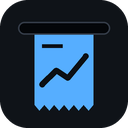
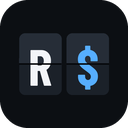
GerencIA 1.0.1: placar de cotações no Início
Troca o recibo por um placar com plaquinhas que viram (split-flap),
diferente dos outros apps. Novo ícone, botão Adicionar dentro do menu
e opções do tema com espaço nas laterais.

Claude-Session: https://claude.ai/code/session_01KymZovckVDN7Ug2oWtjnTX

diff --git a/gerencia/app/www/styles.css b/gerencia/app/www/styles.css
@@ -25,8 +25,10 @@
   --text-2: #b6bfcb;
   --muted: #8a94a2;
   --nav: #0b0e12;
-  --fenda: #05070a;
-  --fenda-borda: #2a313b;
+  --placar-bg: #0c0f13;
+  --placar-borda: #262d37;
+  --placar-ink: #f3f5f8;
+  --placar-muted: #8f99a6;
   --terc: #F5B14C;
   --danger: #FF7A6B;
   --good: #4CD3A5;
@@ -41,7 +43,6 @@
   color-scheme: light;
   --bg: #f2f4f7; --card: #ffffff; --card-2: #eef1f5; --line: #e3e7ec; --line-2: #d3d9e1;
   --text: #121820; --text-2: #3d4754; --muted: #667180; --nav: #ffffff;
-  --fenda: #20262e; --fenda-borda: #3a424d;
   --terc: #a85f00; --danger: #c63d2f; --good: #0f8a5f;
   --accent-text: color-mix(in srgb, var(--accent) 58%, #000);
   --shadow: 0 10px 30px rgba(20, 30, 45, .14);
@@ -53,8 +54,7 @@
     color-scheme: light;
     --bg: #f2f4f7; --card: #ffffff; --card-2: #eef1f5; --line: #e3e7ec; --line-2: #d3d9e1;
     --text: #121820; --text-2: #3d4754; --muted: #667180; --nav: #ffffff;
-    --fenda: #20262e; --fenda-borda: #3a424d;
-    --terc: #a85f00; --danger: #c63d2f; --good: #0f8a5f;
+      --terc: #a85f00; --danger: #c63d2f; --good: #0f8a5f;
     --accent-text: color-mix(in srgb, var(--accent) 58%, #000);
     --shadow: 0 10px 30px rgba(20, 30, 45, .14);
     --c1: #2a78d6; --c2: #eb6834; --c3: #1baf7a; --c4: #eda100;
@@ -100,31 +100,58 @@ svg { display: block; }
 }
 .icbtn:active { background: var(--card-2); }
 
-/* ---------- comprovante (destaque principal do GerencIA) */
-.cpv-wrap { position: relative; margin: 4px 0 28px; }
-.cpv-fenda {
-  position: relative; z-index: 2; height: 18px; margin: 0 -2px; border-radius: 10px;
-  background: var(--fenda); border: 1px solid var(--fenda-borda);
-  box-shadow: inset 0 4px 7px rgba(0, 0, 0, .7);
+/* ---------- placar de cotações (destaque principal do GerencIA) */
+.placar {
+  --tile-a: #262d37; --tile-b: #1b2129; --fresta: #05070a;
+  position: relative; margin: 4px 0 26px; padding: 16px 16px 14px; border-radius: 18px;
+  background: var(--placar-bg); color: var(--placar-ink); border: 1px solid var(--placar-borda);
+  box-shadow: inset 0 1px 0 rgba(255, 255, 255, .05), var(--shadow);
 }
-.cpv-papel { margin: -9px 16px 0; filter: drop-shadow(0 10px 14px rgba(0, 0, 0, .28)); }
-.cpv {
-  --dente: 16px;
-  background: var(--accent); color: var(--on-accent);
-  padding: 26px 22px calc(var(--dente) + 18px);
-  transform: rotate(-.7deg); transform-origin: top center;
-  -webkit-mask: conic-gradient(from -45deg at bottom, #0000, #000 1deg 89deg, #0000 90deg) 50% / var(--dente) 100%;
-  mask: conic-gradient(from -45deg at bottom, #0000, #000 1deg 89deg, #0000 90deg) 50% / var(--dente) 100%;
+.placar::before, .placar::after { /* parafusos do painel */
+  content: ""; position: absolute; top: 9px; width: 6px; height: 6px; border-radius: 50%;
+  background: var(--placar-borda); box-shadow: inset 0 1px 1px rgba(0, 0, 0, .6);
 }
-.cpv-topo { display: flex; justify-content: space-between; gap: 12px; font: 600 12px/1 var(--font); letter-spacing: .12em; text-transform: uppercase; opacity: .8; }
-.cpv-val { font: 700 clamp(48px, 15vw, 76px)/.95 var(--font-d); letter-spacing: -.01em; margin: 14px 0 16px; white-space: nowrap; }
-.cpv-val small { font-size: .46em; font-weight: 600; margin-right: 6px; vertical-align: .6em; }
-.cpv-val.palavra { font-size: clamp(48px, 14vw, 66px); }
-.cpv-linhas { border-top: 2px dashed color-mix(in srgb, var(--on-accent) 32%, transparent); padding-top: 12px; display: grid; gap: 6px; }
-.cpv-linha { display: flex; justify-content: space-between; align-items: baseline; gap: 12px; font: 500 15px/1.3 var(--font); }
-.cpv-linha b { font: 600 19px/1.1 var(--font-d); white-space: nowrap; }
-.cpv-texto { font: 500 16px/1.4 var(--font); margin: 0; }
-.cpv-rodape { margin-top: 14px; font: 600 12px/1 var(--font-d); letter-spacing: .12em; text-transform: uppercase; opacity: .55; display: flex; justify-content: space-between; gap: 8px; }
+.placar::before { left: 9px; }
+.placar::after { right: 9px; }
+.placar-cab { display: flex; align-items: center; gap: 9px; margin: 0 6px 12px; font: 600 12px/1 var(--font); letter-spacing: .12em; text-transform: uppercase; color: var(--placar-muted); }
+.placar-cab .led { width: 8px; height: 8px; border-radius: 50%; background: var(--accent); box-shadow: 0 0 0 3px color-mix(in srgb, var(--accent) 25%, transparent), 0 0 10px var(--accent); flex: none; }
+.placar-cab .dt { margin-left: auto; font: 600 14px/1 var(--font-d); letter-spacing: .06em; }
+.placar-num { container-type: inline-size; display: flex; align-items: stretch; gap: 4px; }
+.placar-num .moeda { align-self: center; font: 600 clamp(18px, 6cqw, 26px)/1 var(--font-d); color: var(--accent); margin-right: 4px; }
+.flap {
+  position: relative; flex: 1 1 0; min-width: 0; max-width: 62px; display: grid; place-items: center;
+  height: min(86px, calc(100cqw / var(--n) * 1.5));
+  border-radius: 7px; background: linear-gradient(var(--tile-a) 0 50%, var(--tile-b) 50% 100%);
+  box-shadow: inset 0 1px 0 rgba(255, 255, 255, .07), 0 2px 0 rgba(0, 0, 0, .55);
+  font: 700 min(66px, calc(100cqw / var(--n) * 1.18))/1 var(--font-d); color: var(--placar-ink);
+  overflow: hidden;
+}
+.flap::after { content: ""; position: absolute; left: 0; right: 0; top: calc(50% - 1px); height: 2px; background: var(--fresta); }
+.flap::before { /* dobradiças laterais */
+  content: ""; position: absolute; left: -1px; right: -1px; top: calc(50% - 4px); height: 8px;
+  border-left: 3px solid var(--fresta); border-right: 3px solid var(--fresta); border-radius: 2px;
+}
+.flap.acento { color: var(--accent); }
+.flap.ponto {
+  flex: 0 0 auto; width: max(10px, calc(100cqw / var(--n) * .32)); height: auto; align-self: stretch; background: none; box-shadow: none;
+  display: flex; align-items: flex-end; justify-content: center; padding: 0 0 10px; font-size: 0; overflow: visible;
+}
+.flap.ponto > span { width: 7px; height: 7px; border-radius: 2px; background: var(--placar-ink); }
+.flap.ponto::before, .flap.ponto::after { display: none; }
+.flap > span { display: block; }
+.placar.vira .flap > span { animation: vira .55s cubic-bezier(.25, .8, .3, 1) both; animation-delay: calc(var(--i) * 55ms); transform-origin: 50% 50%; }
+@keyframes vira {
+  0% { transform: perspective(240px) rotateX(-90deg); opacity: .2; }
+  60% { transform: perspective(240px) rotateX(12deg); opacity: 1; }
+  100% { transform: none; opacity: 1; }
+}
+.placar-cols { display: grid; grid-template-columns: repeat(3, minmax(0, 1fr)); margin-top: 14px; border-top: 1px solid var(--placar-borda); }
+.placar-cols > div { padding: 11px 6px 2px; min-width: 0; }
+.placar-cols > div + div { border-left: 1px solid var(--placar-borda); padding-left: 11px; }
+.placar-cols span { display: block; font: 600 12px/1.2 var(--font); letter-spacing: .1em; text-transform: uppercase; color: var(--placar-muted); }
+.placar-cols b { display: block; margin-top: 4px; font: 600 19px/1.1 var(--font-d); white-space: nowrap; color: var(--placar-ink); }
+.placar-cols b.acento { color: var(--accent); }
+.placar-txt { margin: 12px 6px 2px; color: var(--placar-muted); font-size: 15px; }
 
 /* ---------- destaques em lista (padrão InventarIA) */
 .hl { border-top: 1px solid var(--line); margin-bottom: 26px; }
@@ -188,8 +215,8 @@ svg { display: block; }
 /* ---------- controles */
 .seg { display: flex; background: var(--card-2); border-radius: 14px; padding: 4px; gap: 4px; margin-bottom: 14px; }
 .seg button {
-  flex: 1; display: flex; align-items: center; justify-content: center; gap: 7px; min-width: 0;
-  padding: 10px 6px; border-radius: 11px; color: var(--muted); font: 500 15px/1.2 var(--font); white-space: nowrap;
+  flex: 1 1 auto; display: flex; align-items: center; justify-content: center; gap: 7px; min-width: 0;
+  padding: 10px 14px; border-radius: 11px; color: var(--muted); font: 500 15px/1.2 var(--font); white-space: nowrap;
 }
 .seg button.on { background: var(--card); color: var(--text); font-weight: 600; box-shadow: 0 1px 2px rgba(0,0,0,.18); }
 :root[data-theme="dark"] .seg button.on { background: #2c333d; }
@@ -415,14 +442,16 @@ code { background: var(--card-2); padding: 2px 6px; border-radius: 6px; font-siz
   padding-left: max(6px, env(safe-area-inset-left, 0px)); padding-right: max(6px, env(safe-area-inset-right, 0px));
 }
 #nav .in { max-width: 600px; margin: 0 auto; display: grid; grid-template-columns: repeat(5, minmax(0, 1fr)); align-items: end; }
+#nav .add { gap: 4px; }
 #nav button { display: flex; flex-direction: column; align-items: center; gap: 4px; color: var(--muted); font: 500 12px/1.2 var(--font); padding: 4px 0; white-space: nowrap; min-width: 0; }
 #nav button.on { color: var(--text); }
 #nav button.on svg { color: var(--accent-text); }
 #nav .add { color: var(--text); }
 #nav .add span.pill {
-  width: 62px; height: 42px; border-radius: 15px; background: var(--accent); color: var(--on-accent);
-  display: grid; place-items: center; margin-top: -14px;
+  width: 56px; height: 34px; border-radius: 12px; background: var(--accent); color: var(--on-accent);
+  display: grid; place-items: center; margin-top: -6px;
 }
+#nav .add span.pill svg { width: 22px; height: 22px; }
 
 #toast {
   position: fixed; left: 50%; bottom: calc(var(--nav-h) + 20px + env(safe-area-inset-bottom, 0px)); z-index: 60;
@@ -432,4 +461,4 @@ code { background: var(--card-2); padding: 2px 6px; border-radius: 6px; font-siz
 }
 #toast.on { opacity: 1; transform: translate(-50%, 0); }
 
-@media (prefers-reduced-motion: reduce) { * { transition: none !important; } }
+@media (prefers-reduced-motion: reduce) { * { transition: none !important; animation: none !important; } }

diff --git a/gerencia/app/www/app.js b/gerencia/app/www/app.js
@@ -418,17 +418,25 @@ function cabecalho(titulo, acoes = '') {
     <p class="sync ${cls}"><span class="dot" aria-hidden="true"></span><span>${txt}</span></p>`;
 }
 
-// Código de autenticação do comprovante, como nos recibos de banco (muda com o total e o dia).
-const autenticacao = v => (Math.round(v * 100) * 31 + +iso(hoje()).replace(/-/g, '')).toString(16).toUpperCase().slice(-6).padStart(6, '0');
-
-// Comprovante saindo da fenda do caixa eletrônico: o destaque principal do Início.
-function comprovante({ topo, data, val, palavra, linhas, texto, rodape }) {
-  return `<div class="cpv-wrap"><div class="cpv-fenda" aria-hidden="true"></div><div class="cpv-papel"><div class="cpv">
-    <div class="cpv-topo"><span>${topo}</span><span>${data}</span></div>
-    <div class="cpv-val${palavra ? ' palavra' : ''}">${val}</div>
-    <div class="cpv-linhas">${texto ? `<p class="cpv-texto">${texto}</p>` : linhas.map(([k, v]) => `<div class="cpv-linha"><span>${k}</span><b>${v}</b></div>`).join('')}</div>
-    ${rodape ? `<div class="cpv-rodape"><span>${rodape[0]}</span><span>${rodape[1] || ''}</span></div>` : ''}
-  </div></div></div>`;
+// Placar de cotações com plaquinhas que viram (split-flap): o destaque principal do Início.
+let PLACAR_ULTIMO = null;
+function placar({ cab, data, valor, palavra, cols, texto, rotulo }) {
+  const chars = [...valor];
+  const sep = ch => ch === '.' || ch === ',';
+  const nSep = chars.filter(sep).length;
+  const n = (chars.length - nSep) + nSep * 0.32 + (palavra ? 0 : 0.9);
+  const vira = PLACAR_ULTIMO !== valor;
+  PLACAR_ULTIMO = valor;
+  let i = 0;
+  const plaquinhas = chars.map((ch, k) => sep(ch)
+    ? `<span class="flap ponto"><span>${ch}</span></span>`
+    : `<span class="flap${palavra && k >= chars.length - 2 ? ' acento' : ''}" style="--i:${i++}"><span>${esc(ch)}</span></span>`).join('');
+  return `<section class="placar${vira ? ' vira' : ''}">
+    <div class="placar-cab"><span class="led" aria-hidden="true"></span><span>${cab}</span><span class="dt">${data}</span></div>
+    <div class="placar-num" style="--n:${n.toFixed(2)}" role="img" aria-label="${esc(rotulo || valor)}">${palavra ? '' : '<span class="moeda" aria-hidden="true">R$</span>'}${plaquinhas}</div>
+    ${texto ? `<p class="placar-txt">${texto}</p>`
+      : `<div class="placar-cols">${cols.map(([k, v, ac]) => `<div><span>${k}</span><b${ac ? ' class="acento"' : ''}>${v}</b></div>`).join('')}</div>`}
+  </section>`;
 }
 
 function tagDono(i) {
@@ -455,12 +463,13 @@ function telaInicio() {
   let html = cabecalho('Início', `${olho}<button class="icbtn" data-a="buscar" aria-label="Buscar">${ic('search')}</button>`);
   if (d.exemplo) html += avisoExemplo();
 
-  const linhas = [['Seu dinheiro', brl(t.meu, 0)]];
-  if (t.terc > 0) linhas.push(['De terceiros', brl(t.terc, 0)]);
-  linhas.push(['Rende por mês', brl(t.mes, 0)]);
-  html += comprovante({
-    topo: 'Patrimônio', data: fData(h), val: `<small>R$</small>${numf(t.total, 0)}`, linhas,
-    rodape: [`${plural(d.investimentos.length, 'investimento', 'investimentos')} · ${plural(nBancos, 'banco', 'bancos')}`, 'AUT ' + autenticacao(t.total)],
+  html += placar({
+    cab: 'Patrimônio', data: fData(h), valor: numf(t.total, 0), rotulo: `Patrimônio de ${brl(t.total, 0)}`,
+    cols: [
+      ['Seu', brl(t.meu, 0)],
+      t.terc > 0 ? ['Terceiros', brl(t.terc, 0)] : ['Bancos', String(nBancos)],
+      ['Por mês', (S.oculto ? '' : '+') + brl(t.mes, 0), true],
+    ],
   });
 
   // destaques
@@ -547,7 +556,7 @@ function avisoExemplo() {
 
 function telaBoasVindas() {
   return `${cabecalho('Início')}
-    ${comprovante({ topo: 'Bem-vindo', data: fData(hoje()), val: 'Gerenc<span style="opacity:.6">IA</span>', palavra: true, texto: 'Seu dinheiro, seus investimentos e quanto eles vão render.', rodape: ['Comprovante nº 0001', ''] })}
+    ${placar({ cab: 'Bem-vindo', data: fData(hoje()), valor: 'GERENCIA', palavra: true, rotulo: 'GerencIA', texto: 'Seu dinheiro, seus investimentos e quanto eles vão render.' })}
     <div class="comeco"><h2>Vamos começar</h2>
     <p>Cadastre o primeiro investimento com o valor de hoje e quanto ele rende. Já tem um backup? Importe o arquivo .zip e tudo volta.</p>
     <div class="btns">
@@ -1142,7 +1151,7 @@ function pintarNav() {
 }
 
 function ajustarTextos() {
-  $$('.cpv-val, .stat-duo b, .inv-valor, .hl-n').forEach(el => {
+  $$('.stat-duo b, .inv-valor, .hl-n').forEach(el => {
     el.style.fontSize = '';
     let fs = parseFloat(getComputedStyle(el).fontSize), n = 0;
     while (el.scrollWidth > el.clientWidth + 1 && fs > 14 && n++ < 40) { fs -= 1.5; el.style.fontSize = fs + 'px'; }

diff --git a/gerencia/DOCS.md b/gerencia/DOCS.md
@@ -11,7 +11,7 @@ O app abre pela barra lateral (Ingress). Quem já está logado no Home Assistant
 
 ## Telas
 
-- **Início**: o comprovante do patrimônio (seu e de terceiros), quanto rende por mês, melhor rendimento, o que vence primeiro, maior banco e quanto seu dinheiro deve valer em 1 ano. Abaixo, o dinheiro de terceiros por pessoa e os avisos (vencimentos, valores desatualizados, índices).
+- **Início**: o placar do patrimônio, com plaquinhas que viram como num painel de cotações (seu, de terceiros e quanto rende por mês), quanto rende por mês, melhor rendimento, o que vence primeiro, maior banco e quanto seu dinheiro deve valer em 1 ano. Abaixo, o dinheiro de terceiros por pessoa e os avisos (vencimentos, valores desatualizados, índices).
 - **Investimentos**: lista com filtro Todos, Meus e Terceiros, por pessoa e por banco. Cada cartão mostra o rendimento, o dono (Meu ou De fulano) e a liquidez.
 - **Adicionar**: valor, data do valor, banco, tipo, rendimento e de quem é o dinheiro. Se for de terceiros, diga de quem.
 - **Gráficos**: *Evolução* mostra o que foi registrado até hoje e a projeção (1, 2, 5 ou 10 anos), com aporte mensal opcional, desconto de IR e o valor em dinheiro de hoje (descontando o IPCA). *Dinheiro atual* divide o total por banco, dono, tipo ou liquidez.

diff --git a/gerencia/CHANGELOG.md b/gerencia/CHANGELOG.md
@@ -1,9 +1,16 @@
 # Mudanças
 
+## 1.0.1
+
+- Início com placar de cotações: o patrimônio aparece em plaquinhas que viram, com seu dinheiro, o de terceiros e quanto rende por mês.
+- Novo ícone com as plaquinhas "R$".
+- Botão Adicionar dentro do menu de baixo, sem passar da borda.
+- Opções do tema (Automático, Claro, Escuro) com espaço nas laterais.
+
 ## 1.0.0
 
 - Primeira versão.
-- Início com o comprovante do patrimônio, destaques, dinheiro de terceiros e avisos.
+- Início com destaques, dinheiro de terceiros e avisos.
 - Tipografia Barlow e Barlow Condensed embutida, como no InventarIA (funciona sem internet).
 - Investimentos com valor, rendimento no padrão de mercado (% do CDI, CDI +, prefixado, IPCA +, Selic +, poupança, estimado) e indicador de dono.
 - Gráficos de evolução (registrado e projetado) e do dinheiro atual por banco, dono, tipo e liquidez.
